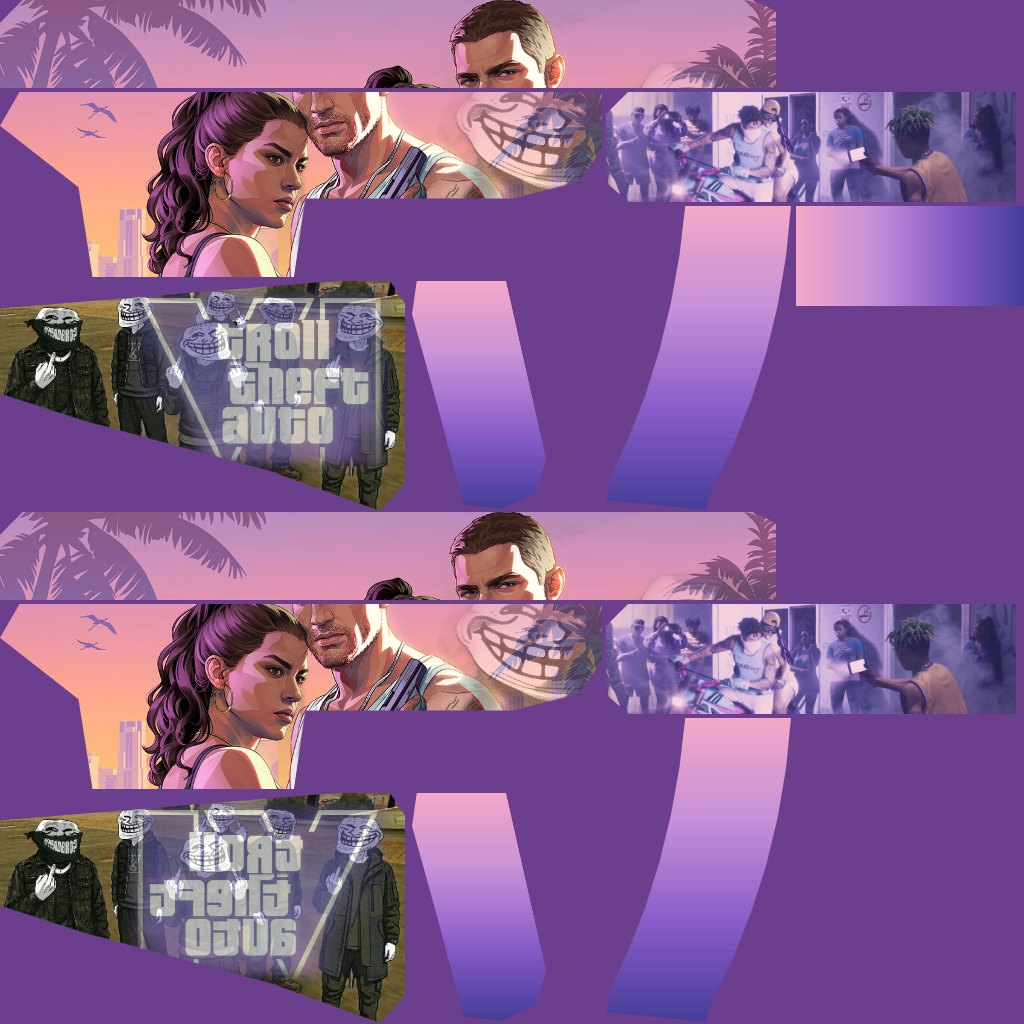
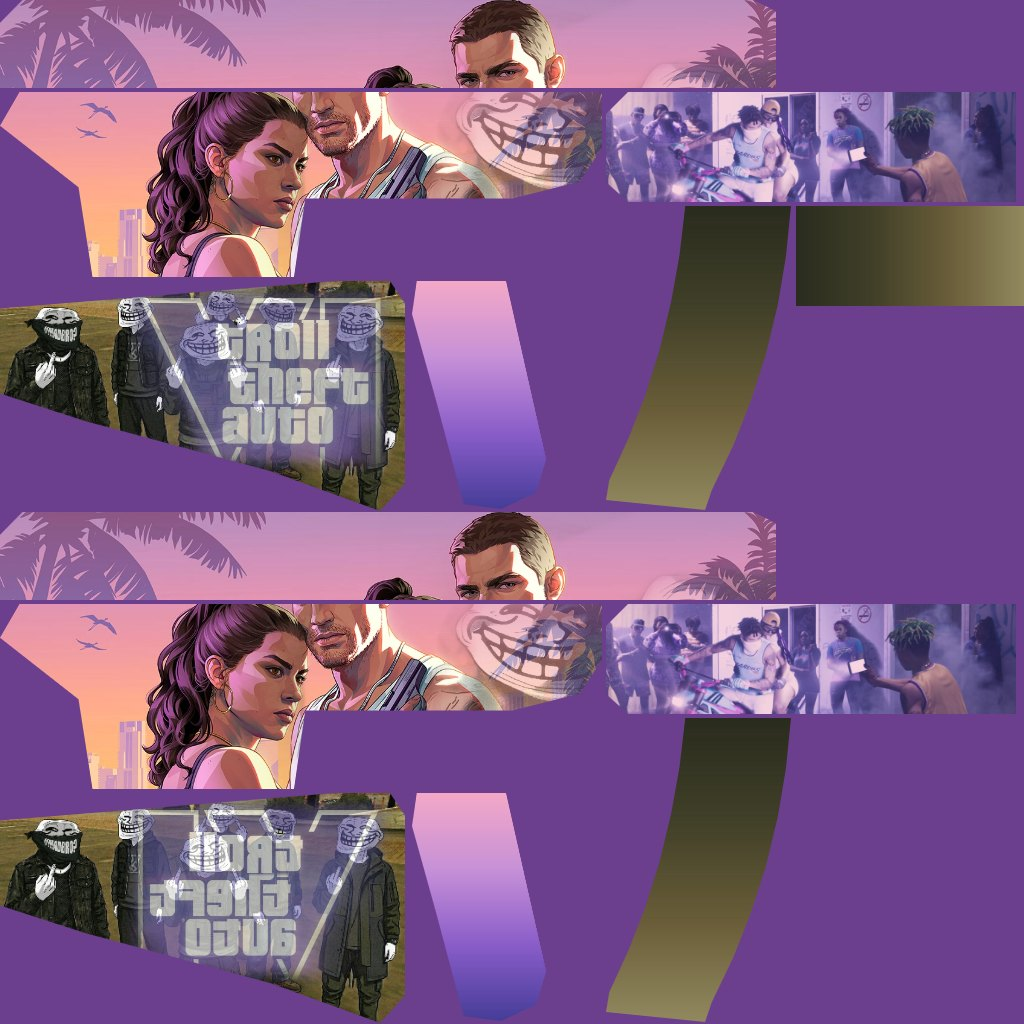
Vice Grin: olive gradient on the stock, mag and rail teeth
Corrects the previous commit: the user wanted the stock's greenish-brown
gradient kept and carried onto the mag and the top rail's teeth, not the
stock switched to the sunset colours. Stock edges back to olive -> khaki ->
sand (sand butt pad); the mag fades dark olive at the top to sand at the
bottom (vice-olive-gradient.jpg); the rail teeth fade dark olive over the
receiver to sand at the muzzle. The grip keeps the sunset gradient.

Changed region(s): [[0.5938, 0.1875, 1.0, 0.5], [0.5938, 0.6875, 0.7812, 1.0]]

diff --git a/assets/games/troll-ops/skins.js b/assets/games/troll-ops/skins.js
@@ -278,9 +278,9 @@ export const SKINS = [
     id: "vice", name: "Vice Grin", banner: "banner-17.jpg",
     blurb: "Leonida sunset, fully loaded.",
     final: true,
-    palette: { trim: "#6c3f8e", ink: "#fff4e8", metal: 0x2b2233, accent: 0xff8fb8, butt: 0x463c98, rail: [0x463c98, 0xf4a8c8] },
+    palette: { trim: "#6c3f8e", ink: "#fff4e8", metal: 0x2b2233, accent: 0xff8fb8, butt: 0x92885f, rail: [0x92885f, 0x2a2b1f] },
     edges: { stock: "vice-stock-edge.jpg" },
-    art: { grip: "vice-gradient.jpg", mag: "vice-gradient.jpg", stock: "troll-crew-san-andreas.jpg", handguard: "gta6-troll-skin-part-vice60.jpg" },
+    art: { grip: "vice-gradient.jpg", mag: "vice-olive-gradient.jpg", stock: "troll-crew-san-andreas.jpg", handguard: "gta6-troll-skin-part-vice60.jpg" },
     layers: { receiver: [{ file: "banners/banner-11.jpg", src: [0.345, 0, 1, 1], at: [0.923, 0.587, 0.875], feather: 0.65, opacity: 0.65, id: "rkn0gy", mask: "vice-rkn0gy-mujaulpy.png", lock: 1 }], stock: [{ id: "8osvw2", file: "skin-art/vice-robbery-troll.jpg", src: [0.044, 0.05, 0.376, 0.486], at: [0.64, 0.42, 0.676], text: 1, feather: 0.15, opacity: 0.65, lock: 1, mask: "vice-8osvw2-mukhm6ar.png" }] },
     crops: {
       receiver: [0.5, 0.344, 1],
